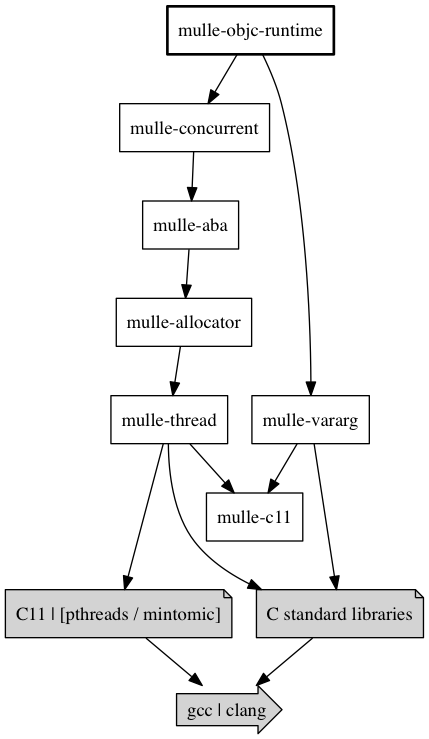
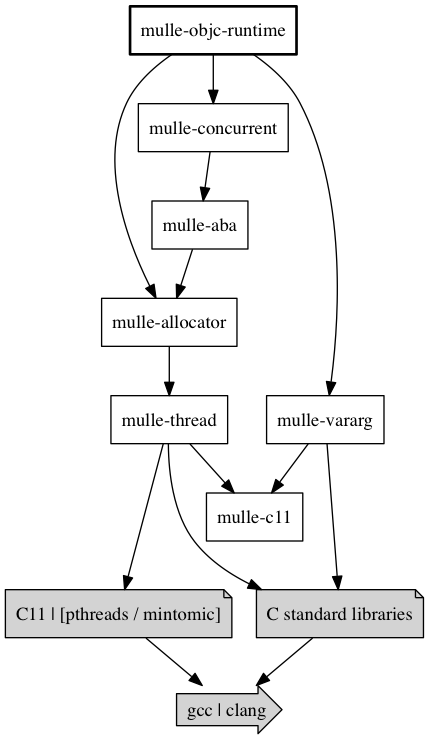
improve dox

diff --git a/README.md b/README.md
@@ -45,6 +45,14 @@ only locks during `+initialize` on a per class basis.
 
 ![Libraries and Tools](https://raw.githubusercontent.com/mulle-nat/mulle-objc-runtime/release/dox/mulle-objc-runtime-dependencies.png)
 
+  Name         | Build Status | Release Version
+---------------|--------------|---------------------------------
+[mulle-concurrent](//github.com/mulle-nat/mulle-concurrent) | [![Build Status](https://travis-ci.org/mulle-nat/mulle-concurrent.svg?branch=release)](https://travis-ci.org/mulle-nat/mulle-concurrent) | ![Mulle kybernetiK tag](https://img.shields.io/github/tag/mulle-nat/mulle-concurrent.svg) [![Build Status](https://travis-ci.org/mulle-nat/mulle-concurrent.svg?branch=release)](https://travis-ci.org/mulle-nat/mulle-concurrent)
+[mulle-aba](//github.com/mulle-nat/mulle-aba) | [![Build Status](https://travis-ci.org/mulle-nat/mulle-aba.svg?branch=release)](https://travis-ci.org/mulle-nat/mulle-aba) | ![Mulle kybernetiK tag](https://img.shields.io/github/tag/mulle-nat/mulle-aba.svg) [![Build Status](https://travis-ci.org/mulle-nat/mulle-aba.svg?branch=release)](https://travis-ci.org/mulle-nat/mulle-aba)
+[mulle-allocator](//github.com/mulle-nat/mulle-allocator) | [![Build Status](https://travis-ci.org/mulle-nat/mulle-allocator.svg?branch=release)](https://travis-ci.org/mulle-nat/mulle-allocator) | ![Mulle kybernetiK tag](https://img.shields.io/github/tag/mulle-nat/mulle-allocator.svg) [![Build Status](https://travis-ci.org/mulle-nat/mulle-allocator.svg?branch=release)](https://travis-ci.org/mulle-nat/mulle-allocator)
+[mulle-vararg](//github.com/mulle-nat/mulle-vararg) | [![Build Status](https://travis-ci.org/mulle-nat/mulle-vararg.svg?branch=release)](https://travis-ci.org/mulle-nat/mulle-vararg) | ![Mulle kybernetiK tag](https://img.shields.io/github/tag/mulle-nat/mulle-vararg.svg) [![Build Status](https://travis-ci.org/mulle-nat/mulle-vararg.svg?branch=release)](https://travis-ci.org/mulle-nat/mulle-vararg)
+[mulle-c11](//github.com/mulle-nat/mulle-c11) | [![Build Status](https://travis-ci.org/mulle-nat/mulle-c11.svg?branch=release)](https://travis-ci.org/mulle-nat/mulle-c11) | ![Mulle kybernetiK tag](https://img.shields.io/github/tag/mulle-nat/mulle-c11.svg) [![Build Status](https://travis-ci.org/mulle-nat/mulle-c11.svg?branch=release)](https://travis-ci.org/mulle-nat/mulle-c11)
+
 ## How to use it
 
 If you haven't used an Objective-C runtime before, it is useful to get to know
